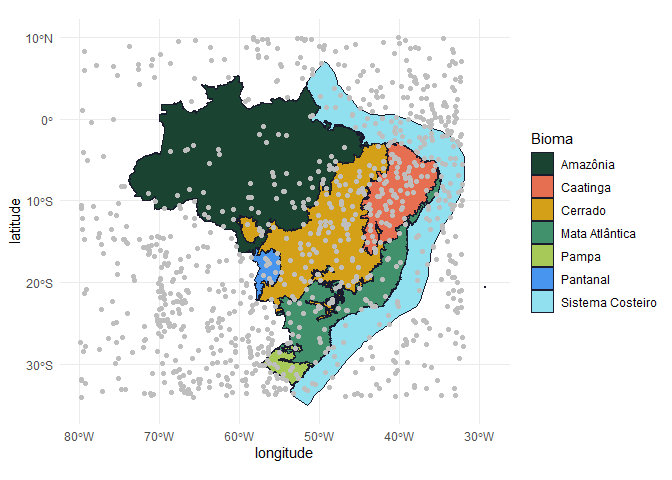
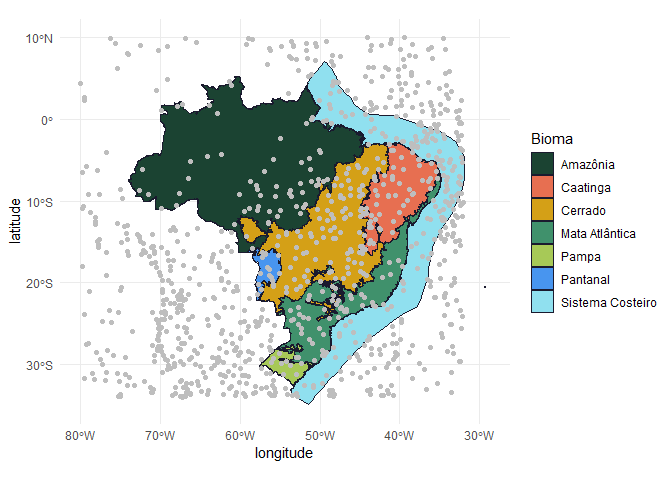
análise de cluster

diff --git a/README.md b/README.md
@@ -48,6 +48,7 @@ library(tidyverse)
 library(ggpubr)
 library(terra)
 library(geobr)
+library(vegan)
 library(sf)
 ```
 
@@ -948,7 +949,7 @@ diferentes latitudes em cada ano.
 df_costeiro_terra_buffer |>
   mutate(
     class_latitude = cut(
-      latitude, 35
+      latitude, 115
     ),
     latitude_media = (
       as.numeric(sub("\\(([-0-9.]+),.*", "\\1", class_latitude)) +
@@ -979,6 +980,148 @@ df_costeiro_terra_buffer |>
 ![](README_files/figure-gfm/unnamed-chunk-37-1.png)<!-- -->
 
 #### Legenda: O código divide os dados em 35 faixas de latitude e calcula a média do XCO₂ sem tendência para cada faixa. O boxplot permite visualizar a distribuição dos valores de XCO₂ ao longo das latitudes, mostrando a variação dos dados entre as diferentes regiões latitudinais.
+
+### Análise de cluster da série temporal
+
+``` r
+df_cluster <- df_costeiro_terra_buffer |>
+  filter(year >2014) |> 
+  mutate(
+    class_latitude = cut(
+      latitude, 115 ),
+   year_month = paste(as.character(year), as.character(month), sep="_"),
+    latitude_media = (
+      as.numeric(sub("\\(([-0-9.]+),.*", "\\1", class_latitude)) +
+      as.numeric(sub(".*[,]([-0-9.]+)\\]", "\\1", class_latitude))
+    ) / 2
+  ) |>
+  group_by(year_month, latitude_media) |>
+  summarise(
+    xco2 = mean(xco2_detrend, na.rm = TRUE),
+    .groups = "drop"
+  ) |> 
+  pivot_wider(names_from = year_month, values_from = xco2) |> 
+  mutate(across(
+    where(is.numeric), .fns = ~replace_na(.x, mean(.x,na.rm=TRUE))
+  ))
+df_cluster
+#> # A tibble: 115 × 120
+#>    latitude_media `2015_1` `2015_10` `2015_11` `2015_12` `2015_2` `2015_3`
+#>             <dbl>    <dbl>     <dbl>     <dbl>     <dbl>    <dbl>    <dbl>
+#>  1          -33.6     380.      383.      383.      383.     381.     381.
+#>  2          -33.2     379.      383.      383.      383.     382.     382.
+#>  3          -32.6     382.      383.      383.      381.     380.     380.
+#>  4          -32.0     379.      383.      384.      383.     381.     381.
+#>  5          -31.6     379.      383.      381.      383.     380.     381.
+#>  6          -31.2     379.      383.      381.      382.     382.     382.
+#>  7          -24.0     382.      383.      383.      383.     382.     382.
+#>  8          -23.0     381.      383.      382.      383.     383.     381.
+#>  9          -22.6     380.      383.      382.      384.     382.     382.
+#> 10          -22.2     382.      382.      386.      383.     382.     382.
+#> # ℹ 105 more rows
+#> # ℹ 113 more variables: `2015_4` <dbl>, `2015_5` <dbl>, `2015_6` <dbl>,
+#> #   `2015_7` <dbl>, `2015_8` <dbl>, `2015_9` <dbl>, `2016_1` <dbl>,
+#> #   `2016_10` <dbl>, `2016_11` <dbl>, `2016_12` <dbl>, `2016_2` <dbl>,
+#> #   `2016_3` <dbl>, `2016_4` <dbl>, `2016_5` <dbl>, `2016_6` <dbl>,
+#> #   `2016_7` <dbl>, `2016_8` <dbl>, `2016_9` <dbl>, `2017_1` <dbl>,
+#> #   `2017_10` <dbl>, `2017_11` <dbl>, `2017_12` <dbl>, `2017_2` <dbl>, …
+```
+
+## Matriz de correlação entre as latitudes
+
+``` r
+mc <- cor(df_cluster |> select(-latitude_media))
+corrplot::corrplot(mc)
+```
+
+![](README_files/figure-gfm/unnamed-chunk-39-1.png)<!-- -->
+
+``` r
+da_pad<-decostand(df_cluster |> select(-latitude_media), 
+                  method = "standardize",
+                  na.rm=TRUE)
+
+da_pad_euc<-vegdist(da_pad,"euclidean") 
+da_pad_euc_ward<-hclust(da_pad_euc, method="ward.D")
+da_pad_euc_ward$labels <- df_cluster$latitude_media
+plot(da_pad_euc_ward, 
+     ylab="Distância Euclidiana",
+     xlab="Acessos", hang=-1,
+     col="blue", las=1,
+     cex=.6,lwd=1.5);box()
+```
+
+![](README_files/figure-gfm/unnamed-chunk-40-1.png)<!-- -->
+
+``` r
+grupo<-cutree(da_pad_euc_ward,4)
+colunas <- df_cluster |> add_column(grupo) |> 
+  select(latitude_media,grupo)
+```
+
+``` r
+df_costeiro_terra_buffer |>
+  filter(year >2014) |> 
+  mutate(
+    class_latitude = cut(
+      latitude, 115 ),
+   year_month = paste(as.character(year), as.character(month), sep="_"),
+    latitude_media = (
+      as.numeric(sub("\\(([-0-9.]+),.*", "\\1", class_latitude)) +
+      as.numeric(sub(".*[,]([-0-9.]+)\\]", "\\1", class_latitude))
+    ) / 2
+  ) |> 
+  left_join(colunas, by = "latitude_media") |> 
+  ggplot(aes(longitude, latitude, color = as_factor(grupo))) +
+  geom_point()
+```
+
+![](README_files/figure-gfm/unnamed-chunk-41-1.png)<!-- -->
+
+``` r
+# Basemap do Brasil (uma vez só, fora do pipe principal)
+brasil <- read_country(year = 2020, showProgress = FALSE)
+
+df_costeiro_terra_buffer |>
+  filter(year > 2014) |> 
+  mutate(
+    class_latitude = cut(latitude, 115),
+    year_month = paste(as.character(year), as.character(month), sep = "_"),
+    latitude_media = (
+      as.numeric(sub("\\(([-0-9.]+),.*", "\\1", class_latitude)) +
+      as.numeric(sub(".*[,]([-0-9.]+)\\]", "\\1", class_latitude))
+    ) / 2
+  ) |> 
+  left_join(colunas, by = "latitude_media") |> 
+  ggplot() +
+  geom_sf(data = brasil, fill = "grey96", color = "grey70", linewidth = 0.3) +
+  geom_point(
+    aes(x = longitude, y = latitude, color = as_factor(grupo)),
+    size = 1.4, alpha = 0.75
+  ) +
+  coord_sf(
+    xlim = range(df_costeiro_terra_buffer$longitude, na.rm = TRUE),
+    ylim = range(df_costeiro_terra_buffer$latitude, na.rm = TRUE)
+  ) +
+  scale_color_brewer(palette = "Set1", name = "Grupo") +
+  labs(
+    title = "Agrupamento espacial de XCO2 na faixa costeira",
+    subtitle = "Grupos formados a partir da análise de séries temporais (2015\u20132023)",
+    x = "Longitude", y = "Latitude"
+  ) +
+  theme_minimal(base_size = 12) +
+  theme(
+    plot.title = element_text(face = "bold", size = 14),
+    plot.subtitle = element_text(color = "grey40", size = 10),
+    legend.position = "right",
+    panel.grid.minor = element_blank(),
+    panel.grid.major = element_line(color = "grey92"),
+    axis.text = element_text(color = "grey30")
+  ) +
+  guides(color = guide_legend(override.aes = list(size = 3, alpha = 1)))
+```
+
+![](README_files/figure-gfm/unnamed-chunk-42-1.png)<!-- -->
 
 \##A partir daqui, peguei os dados de Manguezais do MapBiomas.
 
